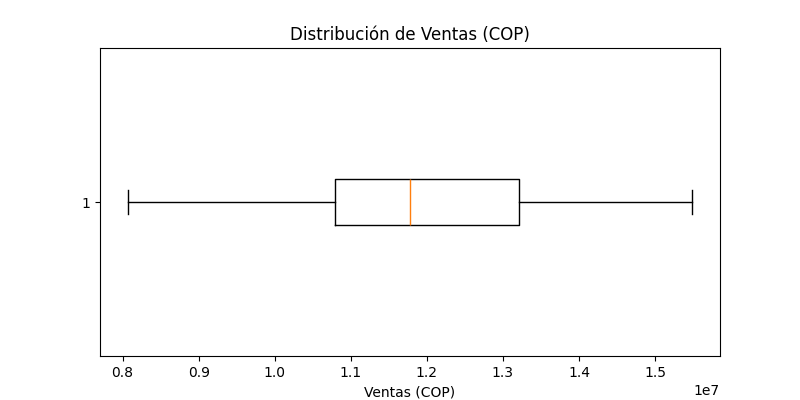
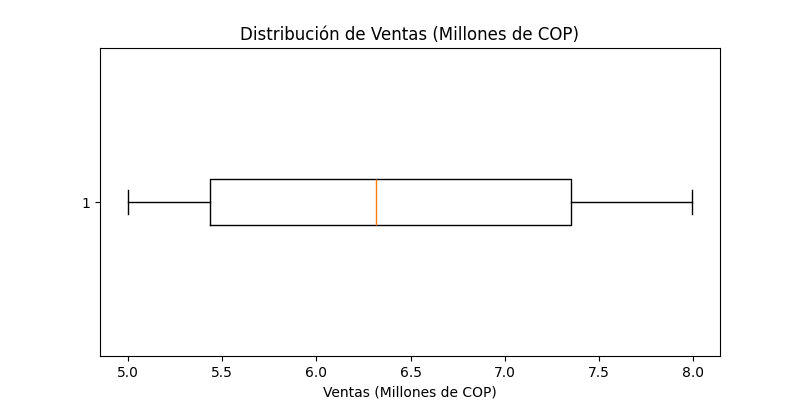
Data Fixed

diff --git a/src/data_processing.py b/src/data_processing.py
@@ -1,21 +1,26 @@
 import pandas as pd
 import numpy as np
 
+import pandas as pd
+import numpy as np
+
 
 def generate_data():
     # Generar datos simulados
     dates = pd.date_range(start='2023-01-01', end='2024-12-31', freq='ME')
-    ventas = 3000 + 500 * np.sin(np.linspace(0, 2 * np.pi, len(dates))) + np.random.randint(-500, 500, len(dates))
 
-    # Convertir ventas de USD a COP (1 USD = 4000 COP)
-    tasa_cambio = 4000
-    ventas_cop = ventas * tasa_cambio
+    # Generar valores de ventas con un componente estacional y ruido aleatorio
+    ventas = 6500000 + 1500000 * np.sin(np.linspace(0, 2 * np.pi, len(dates))) + np.random.randint(-500000, 500000, len(dates))
 
+    # Asegurar que las ventas estén dentro del rango deseado (5,000,000 a 8,000,000 COP)
+    ventas = np.clip(ventas, 5000000, 8000000)
+
+    # Generar datos de promociones (0: no hay promoción, 1: hay promoción)
     promociones = np.random.choice([0, 1], size=len(dates), p=[0.7, 0.3])
 
     return pd.DataFrame({
         'Fecha': dates,
-        'Ventas': ventas_cop,  # Usar ventas en COP
+        'Ventas': ventas,  # Ventas en COP
         'Promocion': promociones
     })
 

diff --git a/src/exploratory_analysis.py b/src/exploratory_analysis.py
@@ -3,16 +3,16 @@ import matplotlib.pyplot as plt
 def generate_plots(df):
     # Serie temporal
     plt.figure(figsize=(12, 6))
-    plt.plot(df['Fecha'], df['Ventas'], marker='o', color='teal')
-    plt.title('Ventas Mensuales (COP)')
-    plt.ylabel('Ventas (COP)')
+    plt.plot(df['Fecha'], df['Ventas'] / 1_000_000, marker='o', color='teal')  # Dividir por 1,000,000 para mostrar en millones
+    plt.title('Ventas Mensuales (Millones de COP)')
+    plt.ylabel('Ventas (Millones de COP)')
     plt.savefig('reports/figures/series_temporal.png')
     plt.close()
 
     # Boxplot
     plt.figure(figsize=(8, 4))
-    plt.boxplot(df['Ventas'], vert=False)
-    plt.title('Distribución de Ventas (COP)')
-    plt.xlabel('Ventas (COP)')
+    plt.boxplot(df['Ventas'] / 1_000_000, vert=False)  # Dividir por 1,000,000 para mostrar en millones
+    plt.title('Distribución de Ventas (Millones de COP)')
+    plt.xlabel('Ventas (Millones de COP)')
     plt.savefig('reports/figures/boxplot.png')
     plt.close()
